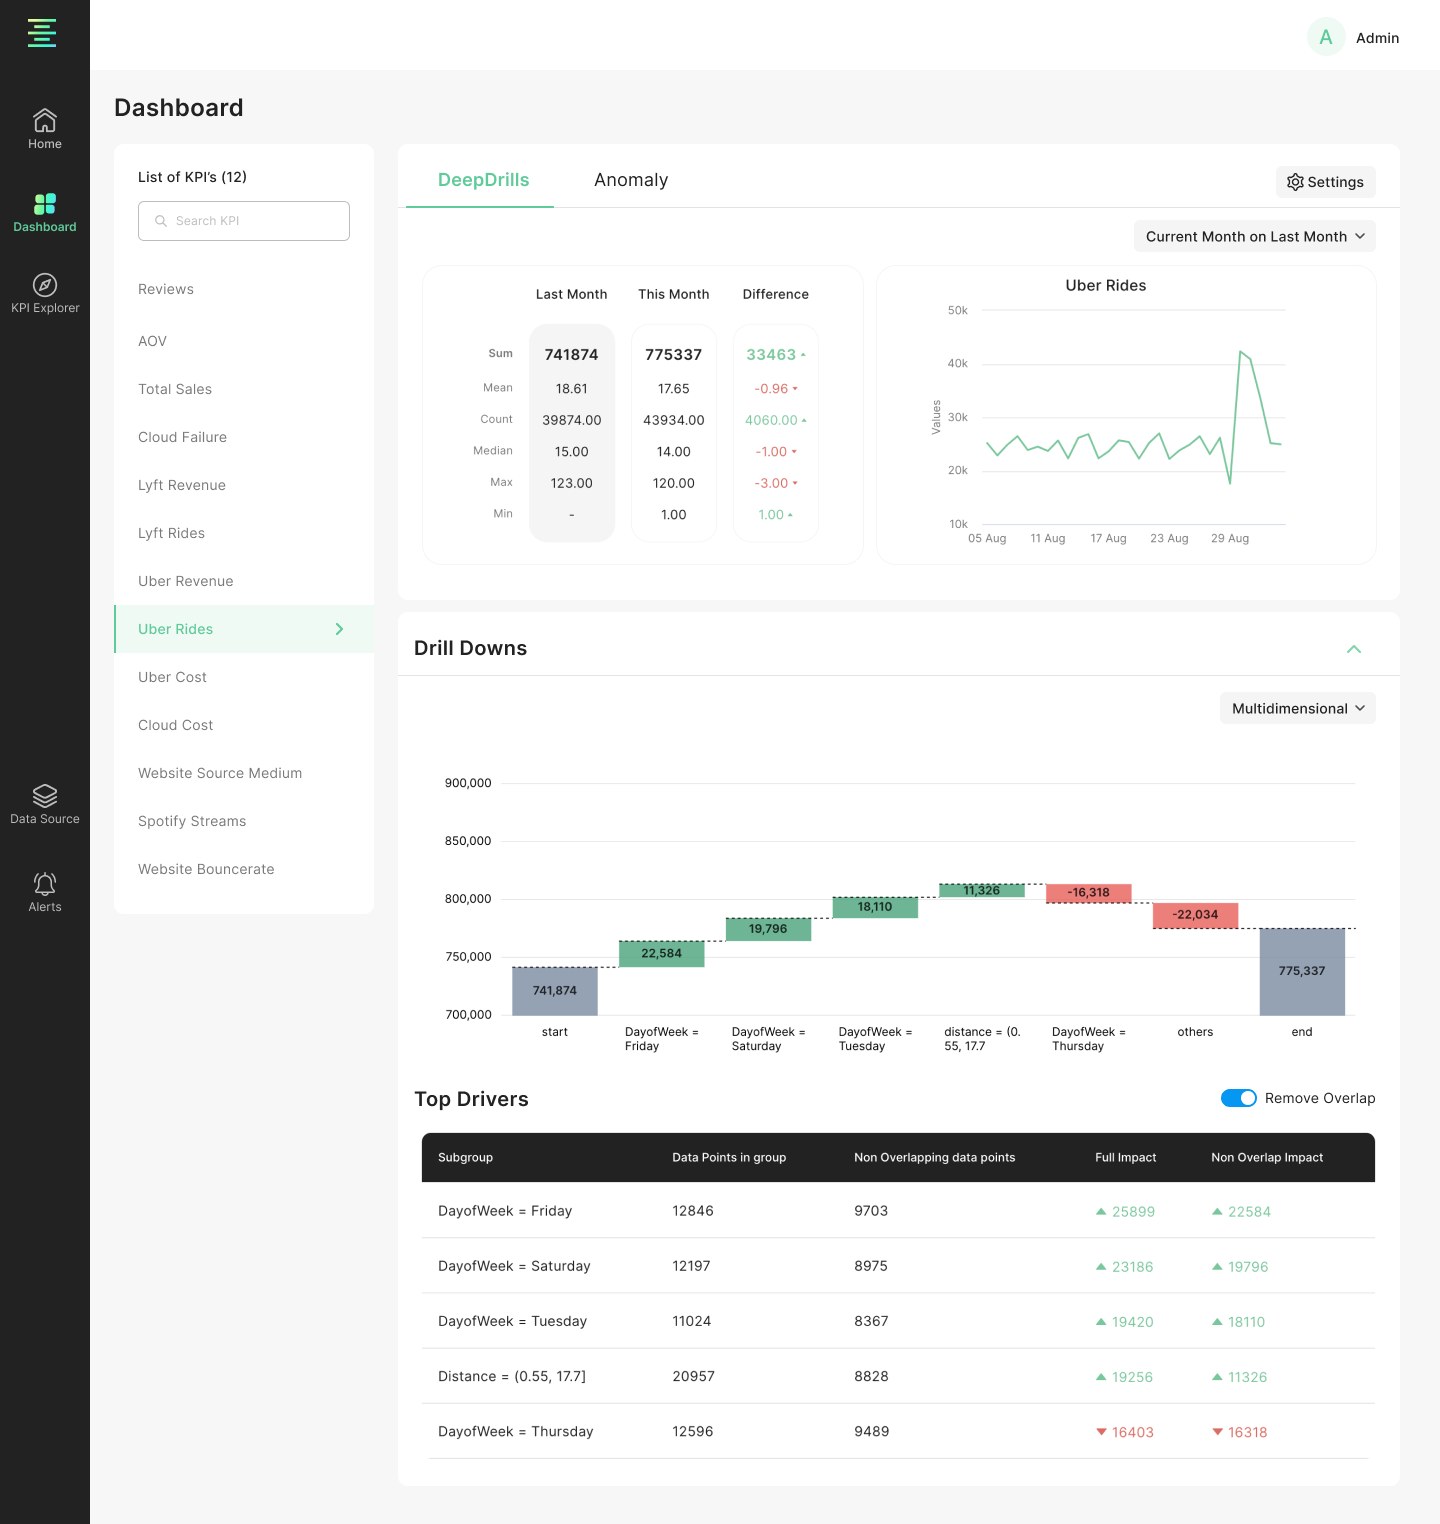
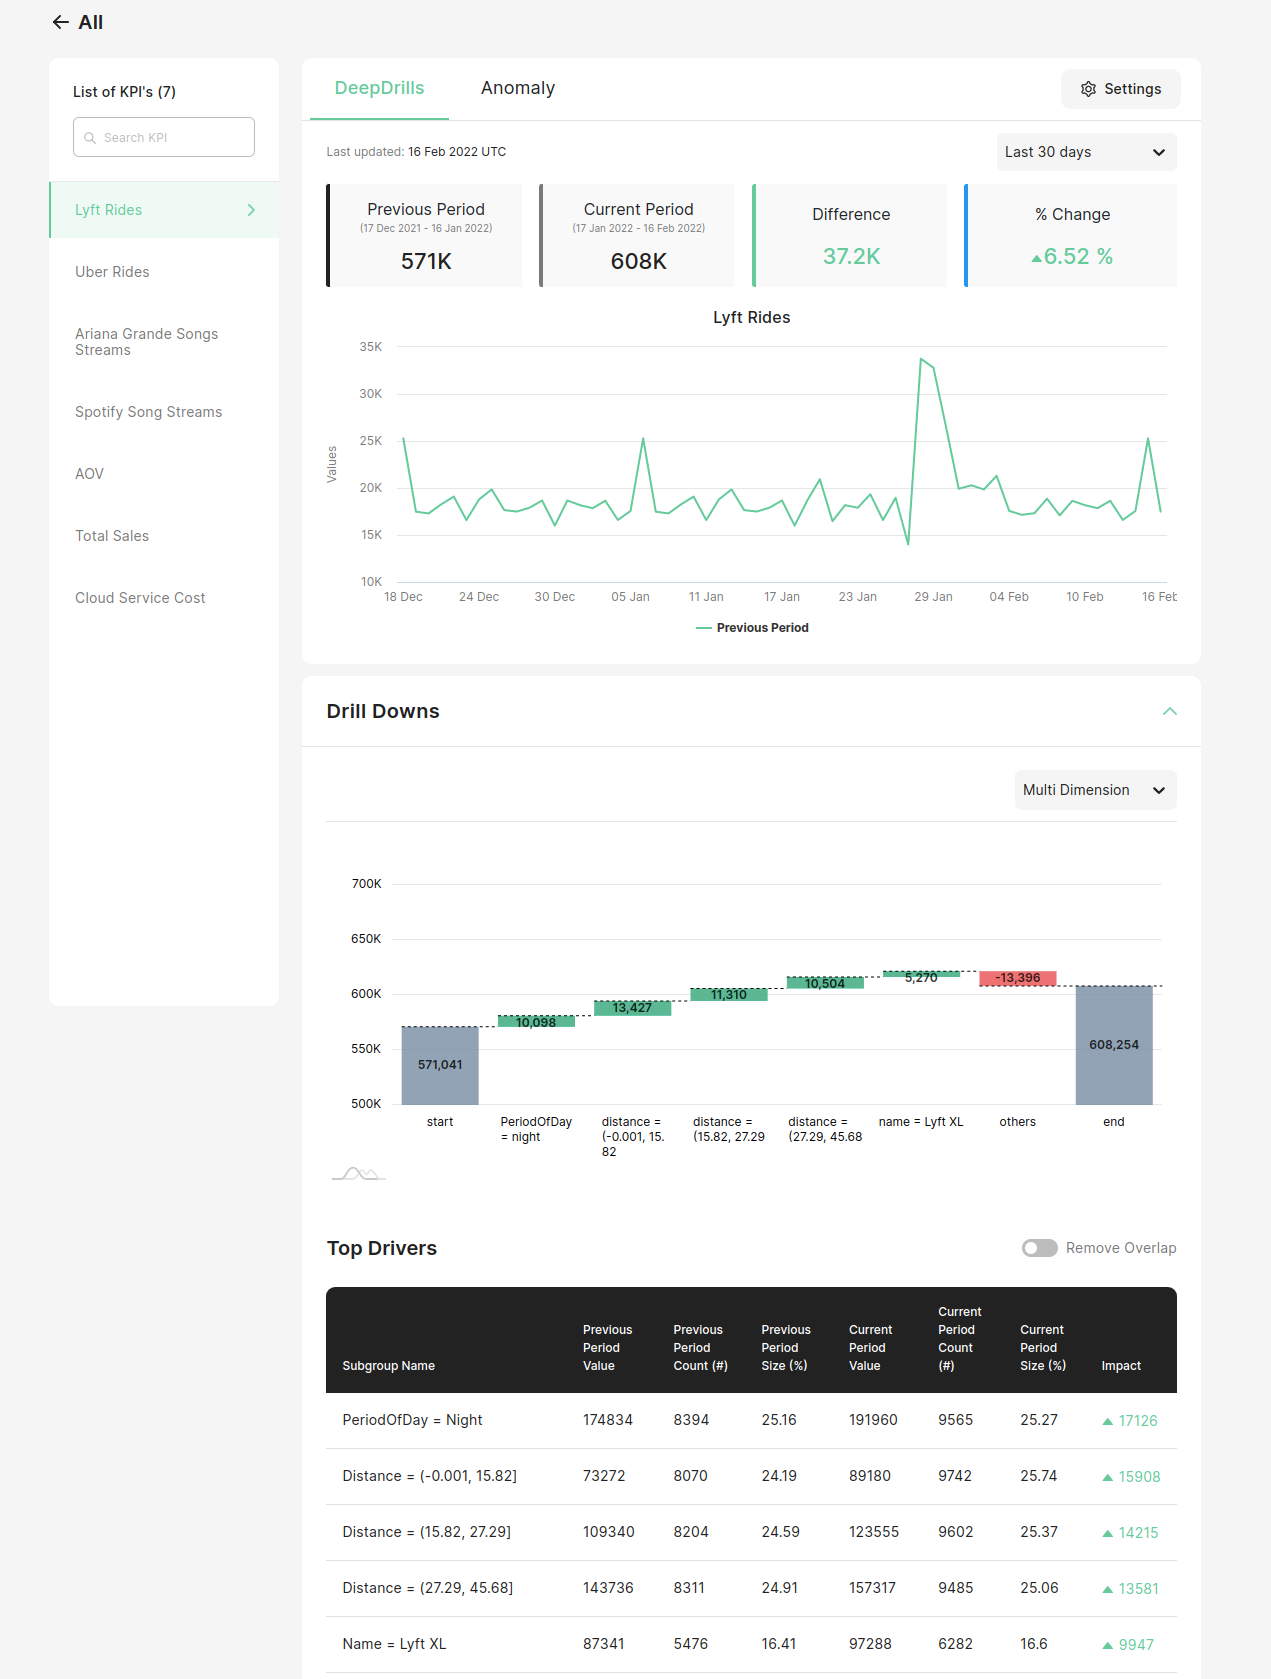
update DD and dashboard

diff --git a/docs/Dashboard/DeepDrills.md b/docs/Dashboard/DeepDrills.md
@@ -11,19 +11,19 @@ Once you've selected the KPI you want to view, your results will look similar li
 
 ![DeepDrills Results](/img/kpi-and-dashboard/DeepDrills.png)
 
-The KPI in this example is `Uber Rides` When creating this KPI, it was set up to be a `Sum` aggregation of the `num_rides` column.
+The KPI in this example is `Lyft Rides` When creating this KPI, it was set up to be a `Sum` aggregation of the `num_rides` column.
 
 Let's take a deeper look at these results!
 
 At the top, you'll see a summary of your KPI column represented with Panel Metrics and a Time Series plot.
 
-## Panel Metrics
+## Summary Panel
 
 ![Panel Metrics](/img/kpi-and-dashboard/panel_metrics.png)
 
-Chaos Genius produces panel metrics from the KPI column to display how the KPI column across various metrics has changed between our two groups of data. For example, here, the total rides were 741874 Last Month, and 775337 This Month. Between Last month and This Month, the KPI `Uber Rides` increased by 33463!
+Chaos Genius produces a summary panel of your metrics from the KPI column and places them at the top for quick viewing. You can examine the values for both the current time range and the previous time range. We also provide a comparison between the two time ranges.
 
-In addition to the KPI value, you can also see related statistics like Mean, Count, Median, Max and Min to check the data distribution.
+For example, here, we've selected our time range to be the Last 30 days. The total rides were 571K in the Previous Period (17th Dec 2021 - 16th Jan 2022) and 608K in the current period (17th Jan 2022 - 16th Feb 2022). You can clearly see that the rides increased by 37.2K which is about 6.52%.
 
 ## Time Series Plot
 
@@ -31,15 +31,17 @@ In addition to the KPI value, you can also see related statistics like Mean, Cou
 
 Chaos Genius will also produce a helpful time series plot to graphically display your selected KPI over the selected time range.
 
-## Changing the time range
+## Changing the Time Range
 
 ![Change Analysis time range](/img/kpi-and-dashboard/change_time_range.png)
 
-Using the Time range dropdown, you can either select to compare groups in a Month-on-Month Week-on-Week or Day-on-Day intervals.
+Using the Time range dropdown, you can select to compare groups in the time interval that you prefer. 
+
+The time intervals we currently offer are: *Last 30 Days, Last 7 Days, Previous Day, Month on Month, Month to Date, Week on Week, Week to Date, Quarter on Quarter and Qaurter to Date*. You can set what intervals you want using the `DEEPDRILLS_ENABLED_TIME_RANGES` param in the .env file. For more information please refer to the [Congif Param Guide](/Operator_Guides/Configuration/config-params.md).
 
 ## Single Dimensional Waterfall
 
-Just under the Panel Metrics and Time Series, you can view the waterfall plot. The waterfall plot shows the most impactful subgroups and their impacts on the KPI metric.
+Just under the Summary Panel and Time Series, you can view the waterfall plot. The waterfall plot shows the most impactful subgroups and their impacts on the KPI metric.
 
 You can use the dropdown to select the Single Dimensional analysis. Then use the tabs to select a sub-dimension.
 
@@ -47,7 +49,7 @@ You can use the dropdown to select the Single Dimensional analysis. Then use the
 
 Notice that all subgroups are values of the selected sub-dimension. For the selected single dimension, you can see how specific values of a sub-dimension affect the KPI.
 
-Below the waterfall charts, you can view the impact of each value of the selected sub-dimension. For example, we can see the overall impact of DayOfWeek = Friday. By clicking the expansion arrow next to a single dimensional subgroup, you can perform Drill-Downs and also view a breakdown of all the multidimensional subgroups that compose this subgroup.
+Below the waterfall charts, you can view the impact of each value of the selected sub-dimension. For example, we can see the overall impact of Name = Lyft XL. By clicking the expansion arrow next to a single dimensional subgroup, you can perform Drill-Downs and also view a breakdown of all the multidimensional subgroups that compose this subgroup.
 
 By default subgroups are sorted by their absolute impact.
 
@@ -57,7 +59,7 @@ By default subgroups are sorted by their absolute impact.
 
 You can use the dropdown to select the Multi-Dimensional analysis. The Multi-Dimensional waterfall has the advantage over single dimensional waterfall due to the fact that it compares all subgroups to find the most impactful ones instead of being limited by a single dimension. The downside is that it is computationally more expensive due to overlap calculations.
 
-Each tile in the waterfall represents a subgroup (a combination of 1 or more sub-dimension values that exists in the dataset). The start and end tiles are for the KPI value in the selected time range groups (Month on Month or Week on Week or Day on Day), respectively. In this example, start is the Uber Rides for Last Month, while end is the Uber Rides for This Month.
+Each tile in the waterfall represents a subgroup (a combination of 1 or more sub-dimension values that exists in the dataset). The start and end tiles are for the KPI value in the selected time range groups, respectively. In this example, start is the Lyft Rides Rides for Previous Period (17th Dec 2021 - 16th Jan 2022), while end is the Uber Rides for current period (17th Jan 2022 - 16th Feb 2022).
 
 The "others" tile represents the sum of impacts from all other not-shown subgroups which each individually, had a minimal impact.
 
@@ -68,6 +70,6 @@ Below the waterfall charts, a table of the "Top Drivers" subgroups is displayed 
 ![Multi Dimensional Drivers](/img/kpi-and-dashboard/multi_dimensional_drivers.png)
 
 
-Subgroups could overlap when they have a value for a dimension in common. For example, DayOfWeek = Thursday would overlap with DayOfWeek = Thursday & PeriodofDay = Night as any datum in the latter subgroup would also be included in the former subgroup.
+Subgroups could overlap when they have a value for a dimension in common. For example, PeriodOfDay = Morning would overlap with PeriodOfDay = Morning & Distance = (45.68, 261.13] as any datum in the latter subgroup would also be included in the former subgroup.
 
 With Chaos Genius, you can look at the calculated non-overlap impact by toggling the "Remove Overlap" switch.

diff --git a/docs/Dashboard/navigating-dashboard.md b/docs/Dashboard/navigating-dashboard.md
@@ -5,14 +5,13 @@ id: 'navigating-the-dashboard'
 
 # Navigating the Dashboard
 
+![Dashboard Overview](/img/kpi-and-dashboard/Dashboard.png)
+
 Navigating your Chaos Genius dashboard is simple. Just follow these steps:
 
 1.  To open up your 'Dashboard', click the menu item in the left-hand side menu.
 
-2.  Next to the side menu, you'll see a list of your configured KPIs to select from.
+2.  You'll see all the dashboards that have been created by you. By default you will always have the ALL dashboard present.
 
-3.  Using the tabs at the top, you can select the analysis type.
+3.  Select the dashboard in which your KPI is present and you're all set to go!
 
-4.  The resulting analysis shows below!
-
-![Dashboard Overview](/img/kpi-and-dashboard/Dashboard.png)
